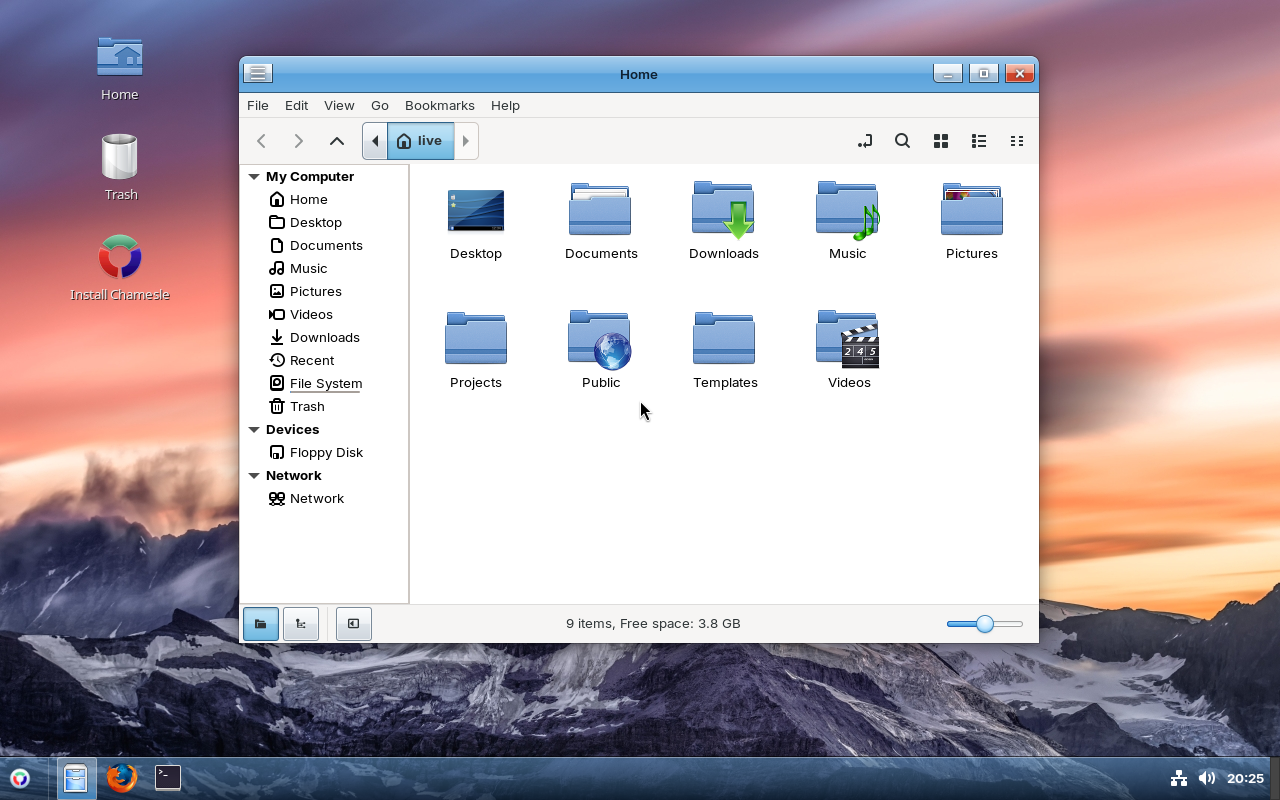
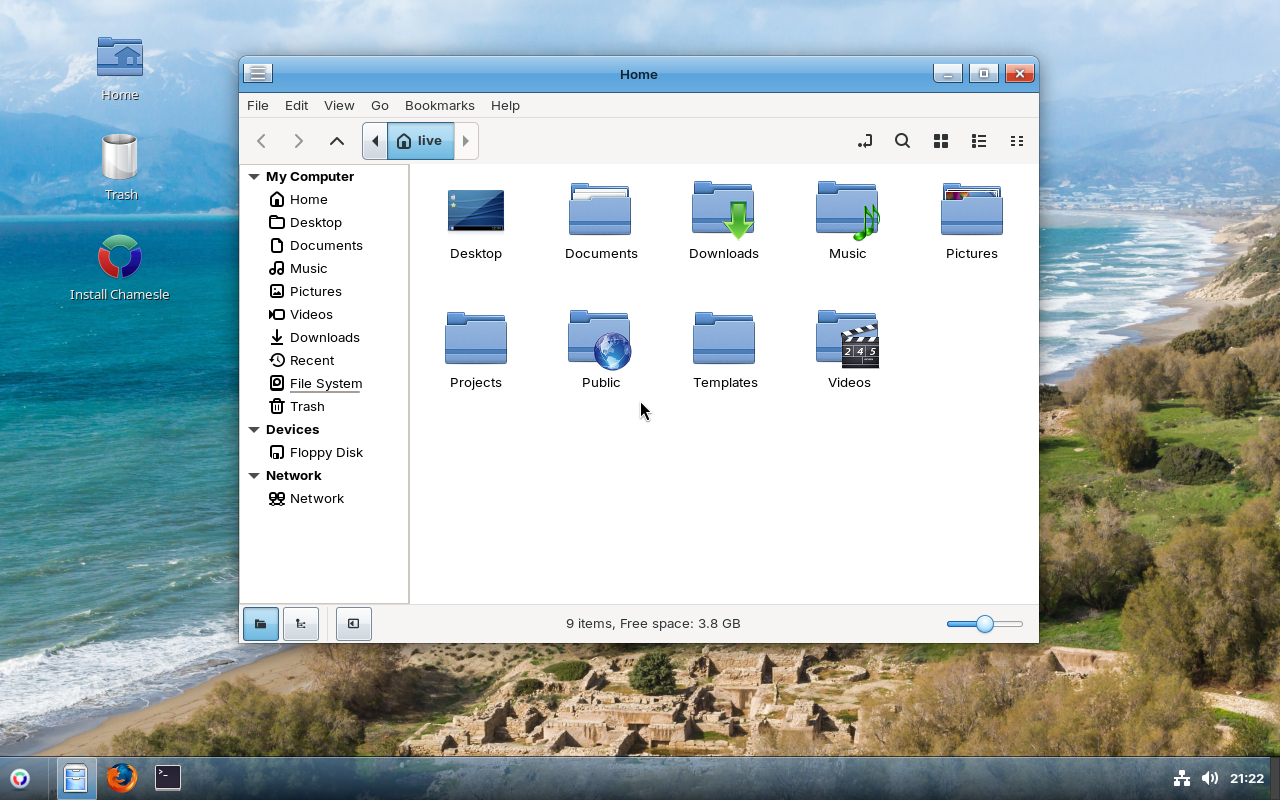
website: 0.7 iso, store and sign-in screen, screenshots on the crete coast

diff --git a/docs/editions.html b/docs/editions.html
@@ -38,7 +38,7 @@ the look of while you install. You can always add another later, for example <co
 
 <div class="edition">
   <h2>Xfce <span class="tag">out now</span></h2>
-  <img src="img/xfce.png?7" alt="The Xfce edition's desktop" width="1280" height="800" loading="lazy">
+  <img src="img/xfce.png?8" alt="The Xfce edition's desktop" width="1280" height="800" loading="lazy">
   <p>The one to start with. Light on memory, and set up like Windows: one taskbar at the bottom, start menu
   bottom left (or press the Windows key), tray and clock bottom right. Glass window frames and taskbar,
   Oxygen icons and the Inter font.</p>
@@ -47,7 +47,7 @@ the look of while you install. You can always add another later, for example <co
 
 <div class="edition">
   <h2>MATE <span class="tag">out now</span></h2>
-  <img src="img/mate.png?7" alt="The MATE edition's desktop" width="1280" height="800" loading="lazy">
+  <img src="img/mate.png?8" alt="The MATE edition's desktop" width="1280" height="800" loading="lazy">
   <p>The desktop Linux Mint's MATE edition is built on, rock solid and very light. Same glass look as Xfce,
   with Mint's own start menu bottom left (the Windows key opens it too), window buttons along the bottom and
   the tray and clock on the right.</p>
@@ -56,7 +56,7 @@ the look of while you install. You can always add another later, for example <co
 
 <div class="edition">
   <h2>Cinnamon <span class="tag">out now</span></h2>
-  <img src="img/cinnamon.png?7" alt="The Cinnamon edition's desktop" width="1280" height="800" loading="lazy">
+  <img src="img/cinnamon.png?8" alt="The Cinnamon edition's desktop" width="1280" height="800" loading="lazy">
   <p>Linux Mint's own desktop, the most polished of the Windows-style ones: smooth effects, a great start menu and pinned
   apps on the taskbar, just like Windows. Same glass look and the same apps underneath.</p>
   <p class="small">Good for: Windows switchers with a computer from the last 8 years or so. 4&nbsp;GB of RAM or more.</p>
@@ -84,7 +84,7 @@ the look of while you install. You can always add another later, for example <co
 
 <div class="edition" id="kde">
   <h2>KDE Plasma <span class="tag">out now</span></h2>
-  <img src="img/kde.png?7" alt="The KDE Plasma edition's desktop: the Matterhorn at sunset and a taskbar along the bottom" width="1280" height="800" loading="lazy">
+  <img src="img/kde.png?8" alt="The KDE Plasma edition's desktop: the Crete coast and a taskbar along the bottom" width="1280" height="800" loading="lazy">
   <p>A start menu, a taskbar along the bottom and the clock in the corner, so it feels familiar from the first
   minute. Then you can change almost anything: panels, widgets, window behaviour, the whole look. Real glass
   windows and taskbar with the desktop blurred through them, Dolphin for your files and the Matterhorn at sunset

diff --git a/docs/index.html b/docs/index.html
@@ -41,19 +41,19 @@
     Windows if you want to keep it.</p>
     <div class="get">
       <a class="button go" href="download.html">Download Chamesle 0.7</a>
-      <span class="small">620&nbsp;MB &middot; 64-bit PC &middot; free</span>
+      <span class="small">618&nbsp;MB &middot; 64-bit PC &middot; free</span>
     </div>
     <p class="small">Already running it? <code>sudo apk upgrade</code></p>
   </div>
-  <a class="shot" href="editions.html"><img src="img/xfce.png?7" alt="The Xfce edition of Chamesle 0.7" width="1280" height="800"></a>
+  <a class="shot" href="editions.html"><img src="img/xfce.png?8" alt="The Xfce edition of Chamesle 0.7" width="1280" height="800"></a>
 </div>
 
 <div class="wrap boxes">
   <section class="box">
     <h2>News</h2>
     <ul class="news-list">
-      <li><b>0.7 "Be Kool" is out.</b> Glass window frames, a glass taskbar, Oxygen icons and a new logo
-      on every desktop except GNOME. <code>sudo apk upgrade</code> to get it. <a href="new.html">What's new</a></li>
+      <li><b>0.7 "Be Kool" is out.</b> Glass windows, taskbar and sign-in screen, Oxygen icons, a new logo,
+      and a Store with screenshots, ratings, firmware and updates in the background. <a href="new.html">What's new</a></li>
       <li><b>0.6.0</b> brought one ISO for every desktop, the Jiggity installer, and Ranni, Play,
       TTY and Server editions.</li>
       <li><b>ttywm</b>, the console with windows on it, is in the repo. <a href="editions.html#tty">TTY edition</a></li>
@@ -95,7 +95,7 @@
     <h2>What's on it</h2>
     <ul class="cols2">
       <li>Firefox, a file manager, printing, Bluetooth, Wi-Fi and laptop firmware, installed.</li>
-      <li>The Chamesle Store: Flathub and our own repo in one window.</li>
+      <li>The Chamesle Store: Flathub and our own repo in one window, with screenshots and ratings.</li>
       <li><code>.deb</code>, <code>.rpm</code>, <code>.exe</code> and <code>.msi</code> files open with a double-click.</li>
       <li>The Driver Manager sets up NVIDIA and some Wi-Fi chips.</li>
       <li>Jiggity, the installer: next to Windows or the whole disk, encrypted if you like.</li>

diff --git a/docs/new.html b/docs/new.html
@@ -44,8 +44,20 @@ blur. Ranni keeps its Mac buttons on the left.</p>
 drivers, Windows programs and the installer.</p>
 <p><b>A new logo.</b> The same three-piece ring, now in glass. It's on the start menu, the boot screen, the
 login screen and this site.</p>
-<p>There's no new ISO. The 0.6 download installs 0.7, since Jiggity downloads the newest packages while
-it installs.</p>
+<p><b>A glass sign-in screen.</b> Your picture on a glass panel over the blurred wallpaper, a round blue
+button to sign in, and the shut down button in red.</p>
+<p><b>A new wallpaper:</b> the bay at Komos, on Crete (Jebulon, CC0). The Matterhorn is still there to pick.</p>
+<p><b>A better Store.</b></p>
+<ul>
+  <li>Screenshots of every app from Flathub, to flip through before you install.</li>
+  <li>Star ratings and reviews, the same ones GNOME Software shows. Once an app is installed you can rate it
+  and write your own.</li>
+  <li>Updates install in the background, once a day while the computer is plugged in. A snapshot is taken
+  first as always, so a bad update can still be undone from the boot menu. There's a switch to turn it off
+  in the Updates tab.</li>
+  <li>Firmware updates: the BIOS, the SSD and other parts, from the people who made them (through LVFS).
+  They're in the Updates tab too.</li>
+</ul>
 
 <h2>0.6.0: Jiggity, one ISO for everything and a faster kernel</h2>
 <p><b>Jiggity, our own installer, and one ISO for everything.</b> Instead of an ISO per desktop there's now

diff --git a/docs/about.html b/docs/about.html
@@ -60,9 +60,8 @@ know, has the drivers and apps already sorted, and stays out of the way.</p>
   CachyOS's LTS kernel, tuned for desktops, with a QR code on the crash screen that turns into a readable
   crash report.</div></li>
   <li class="done"><span class="ver">0.7</span><div><b>Be Kool: a look of our own.</b> Chamesle Glass on every
-  edition except GNOME: glass frames and taskbar, glossy buttons, Oxygen icons and a new logo. Still to come in 0.7:
-  the login screen in glass, and a better store with screenshots, ratings, updates in the background and
-  firmware updates for your BIOS and SSD.</div></li>
+  edition except GNOME: glass frames and taskbar, glossy buttons, Oxygen icons and a new logo. A glass sign-in screen, and a better
+  store: screenshots, ratings and reviews, updates in the background and firmware updates for your BIOS and SSD.</div></li>
   <li class="next"><span class="ver">0.8</span><div>Chamesle's own apps in every language, and a pass on accessibility: screen reader, high
   contrast and large text from the first boot.</div></li>
   <li class="next"><span class="ver">0.9</span><div>Release candidate: no new features, just fixes. Try it on your computer and tell us on the <a href="board.html">board</a> what breaks, so 1.0 works on as many machines as possible.</div></li>

diff --git a/docs/download.html b/docs/download.html
@@ -35,11 +35,11 @@
   <div class="wrap">
 <div class="dl-grid">
   <div class="dl">
-    <img src="img/xfce.png?7" alt="The Xfce desktop" loading="lazy">
+    <img src="img/xfce.png?8" alt="The Xfce desktop" loading="lazy">
     <div>
       <h3>Chamesle 0.7</h3>
       <p>Xfce, MATE, Cinnamon, GNOME, KDE Plasma, Astro, Ranni, Play, TTY or Server. You choose in the installer.</p>
-      <p class="small">The 0.6.0 installer, it installs 0.7 "Be Kool" &middot; 64-bit &middot; 620&nbsp;MB</p>
+      <p class="small">Chamesle 0.7.0 "Be Kool" &middot; 64-bit &middot; 618&nbsp;MB</p>
       <a class="button" href="https://sourceforge.net/projects/chameslerepos/files/iso/chamesle-x86_64.iso/download">Download Chamesle</a>
       <a class="plain" href="https://sourceforge.net/projects/chameslerepos/files/iso/chamesle-x86_64.iso.sha256/download">SHA-256</a>
     </div>
